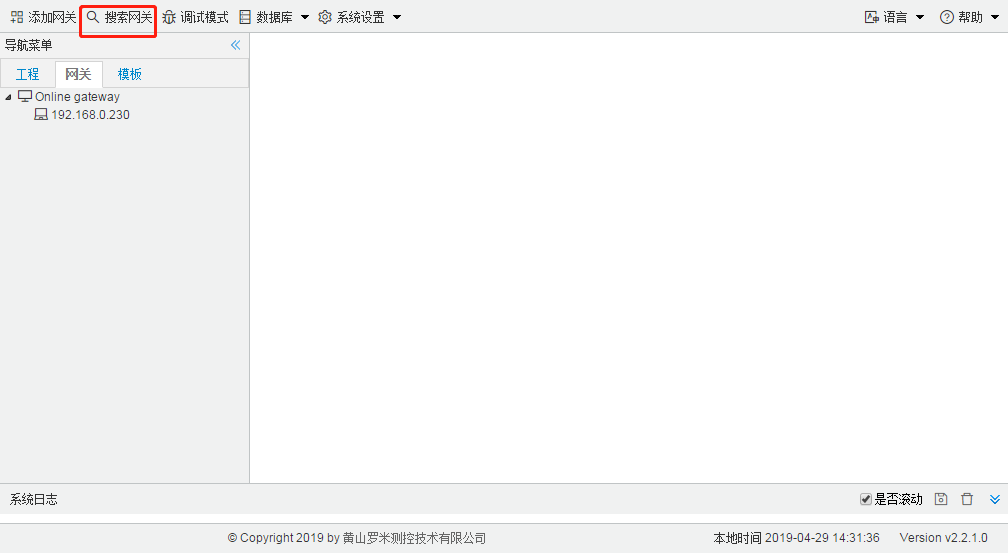
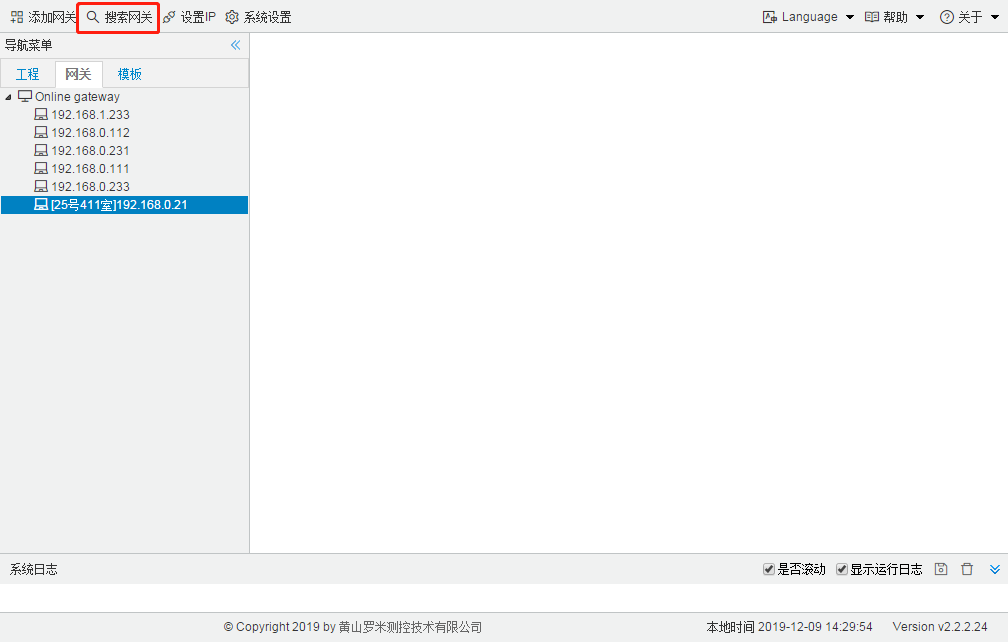
添加工程实例章节

diff --git a/ch6/ch6-1.md b/ch6/ch6-1.md
@@ -884,3 +884,90 @@ Mqtt Client页面的主题中，实时数据、查询、控制、控制返回、
 }
 ```
 
+
+
+## 6.1.5 自定义模板
+
+GC支持用户自定义模板，用于生成不同格式的实时数据、控制主题、重启主题等订阅到的数据的解析。在此以实时数据主题的模板为例，介绍如何新建自定义模板。具体操作如下：
+
+1. Mqtt模板在配置工具安装目录下mqtt文件夹下，其中realtime文件夹为实时数据的模板目录；
+
+2. 在realtime文件夹下新建一个js，在其中进行模板的编写；
+
+3. 参照其他模板，如default.js：
+
+   ```js
+   (function() {
+       var timestamp = Math.round(new Date().getTime() / 1000)
+       result = { "clientid": base["Clientid"], "time": timestamp.toString() };
+       data.forEach(function(tag) {
+           if (!result[tagExt[tag.Id].deviceCode]) {
+               result[tagExt[tag.Id].deviceCode] = {};
+           }
+           result[tagExt[tag.Id].deviceCode][tagExt[tag.Id].tagCode] = parseFloat(tag["Val"])
+       });
+       return JSON.stringify(result);
+   })();
+   ```
+
+   其中  (function() {
+
+   			......
+
+       })();
+
+   为主体，js需要写在其中；
+
+   data为经过过滤后的数据，格式为
+
+   ```json
+   [
+       {
+           "Id":"Device1.tag0001",
+           "Status":"Good",
+           "Timestamp":1574926563,
+           "Val":"1.000000"
+       },
+       {
+           "Id":"Device1.tag0002",
+           "Status":"Good",
+           "Timestamp":1574926563,
+           "Val":"3.000000"
+       }
+   ]
+   ```
+
+   base为mqtt配置填写的参数；
+
+    
+
+   tagExt为tag点的额外属性，包括采集页面中的名称（description）、tag点所在的设备名称、读写类型、tagID，还可以包含“高级参数”中填写的数据（“高级参数”需要填写json格式的数据）
+
+   ```json
+   {
+       "Device1.tag0001":{
+           "description":"",
+           "deviceCode":"Device1",
+           "objectType":"AV",
+           "tagCode":"tag0001"
+       },
+       "Device1.tag0002":{
+           "description":"",
+           "deviceCode":"Device1",
+           "objectType":"AV",
+           "tagCode":"tag0002"
+       }
+   }
+   ```
+
+   模板最后返回主题需要上传的字符串；
+
+   
+
+4. 模板编写完成之后，需要在配置工具中选择新建的模板；
+
+5. 可以先用配置工具“PC端运行工程”测试模板能否正确运行；
+
+6. 需要下载模板到网关：在“系统设置”中选择“开发者模式”，密码为“luomi”，选择“下载MQTT模板”，之后下载工程，网关就会根据新建的模板上传数据。
+
+   ![下载MQTT模板](assets/下载MQTT模板.jpg)

diff --git a/ch2/ch2-5.md b/ch2/ch2-5.md
@@ -14,7 +14,7 @@
 
 ##### URL（获取实时数据地址）：
 
-> http://192.168.1.233/API/V2/real (192.168.1.233为需要查询的网关的ip地址)
+> http://192.168.1.233/API/V2/real  (192.168.1.233为需要查询的网关的ip地址)
 
 ##### HTTP请求方式：
 
@@ -89,7 +89,7 @@
 
 ##### URL（获取实时数据地址）：
 
-> http://192.168.1.233/API/V2/real?deviceCode=Device1 (192.168.1.233为需要查询的网关的ip地址，Device1为需要获取数据的设备名称)
+> http://192.168.1.233/API/V2/real?deviceCode=Device1  (192.168.1.233为需要查询的网关的ip地址，Device1为需要获取数据的设备名称)
 
 ##### HTTP请求方式：
 
@@ -118,7 +118,7 @@
 
 ```json
 {
-    "deviceCode":"ALL",
+    "deviceCode":"Device1",
     "val":[
         {
             "id":"Device1.tag0001",
@@ -158,7 +158,7 @@
 
 ##### URL（进行写操作地址）：
 
-> http://192.168.1.233/ctrlRequest (192.168.1.233为需要进行写操作的网关的ip地址)
+> http://192.168.1.233/ctrlRequest  (192.168.1.233为需要进行写操作的网关的ip地址)
 
 ##### HTTP请求方式：
 
@@ -201,7 +201,7 @@ HTTP通讯成功返回结果都为true，指明网关接收到发送的写操作
 
 ##### URL（获取历史数据地址）：
 
-> http://192.168.1.233/API/V1/history?startTime=2019-07-09&tagID=Device1.tag0001 (192.168.1.233为需要获取历史数据的网关的ip地址，startTime为需要获取历史数据的指定日期，tagID为需要获取历史数据的指定Tag点)
+> http://192.168.1.233/API/V1/history?startTime=2019-07-09&tagID=Device1.tag0001  (192.168.1.233为需要获取历史数据的网关的ip地址，startTime为需要获取历史数据的指定日期，tagID为需要获取历史数据的指定Tag点)
 
 ##### HTTP请求方式：
 

diff --git a/ch12/ch12-2.md b/ch12/ch12-2.md
@@ -1,0 +1,22 @@
+# 12.2 新建网关设备
+
+右键单击“domo”根节点，选择“添加网关”，输入网关名称，选择需要配置的网关类型，单击“确定”按钮，如图12-2所示。
+
+![12-2 新建网关设备](assets/12-2 新建网关设备.png)
+
+<center>图12-2 新建网关设备</center>
+
+此时我们就可以在“demo”根节点下，看到该网关类型所有的可供配置项。
+
+其中“数据采集”为数据来源，分为I/O点（采集驱动）、用户点、计算点和系统点；
+
+“数据存储”是将需要存储的数据点，按照设定周期存储到TF卡当中；
+
+“数据服务”是该网关类型提供的服务类型：例如上图选择“MODBUS网关”，此处就会显示“Modbus”服务。
+
+“任务计划”、“报警与事件”和“JavaScript脚本编辑”的说明，详见第七、八、九章节。
+
+![12-3 工程树](assets/12-3 工程树.png)
+
+<center>图12-3 工程树</center>
+

diff --git a/SUMMARY.md b/SUMMARY.md
@@ -32,7 +32,6 @@
   - [6.2 IoTDDC](ch6/ch6-2.md)
   - [6.3 Alink](ch6/ch6-3.md)
   - [6.4 Tlink](ch6/ch6-4.md)
-  
 - [第七章 任务计划](ch7/README.md)
 - [第八章 报警与事件](ch8/README.md)
   - [8.1 设置报警条件](ch8/ch8-1.md)
@@ -43,6 +42,14 @@
   - [9.3 使用示例](ch9/ch9-3.md)
 - [第十章 运行工程](ch10/README.md)
 - [第十一章 模板](ch11/README.md)
+- [第十二章 应用实例](ch12/README.md)
+  - [12.1 新建工程](ch12/ch12-1.md)
+  - [12.2 新建网关设备](ch12/ch12-2.md)
+  - [12.3 新建通道](ch12/ch12-3.md)
+  - [12.4 新建设备](ch12/ch12-4.md)
+  - [12.5 添加数据点](ch12/ch12-5.md)
+  - [12.6 数据服务](ch12/ch12-6.md)
+  - [12.7 应用工程](ch12/ch12-7.md)
 
 
 

diff --git a/ch12/ch12-6.md b/ch12/ch12-6.md
@@ -1,0 +1,13 @@
+# 12.6 数据服务
+
+单击选择“数据服务”下的“Modbus”，在右侧弹出页面中进行Modbus服务的配置。
+
+![12-7 Modbus服务](assets/12-7 Modbus服务.png)
+
+<center>图12-7 Modbus服务</center>
+
+在Modbus服务中，上方是Modbus服务的协议配置，下方为映射到Modbus服务上的数据点，映射的数据区、寄存器地址、数据类型以及字节序。
+
+
+
+本示例为Modbus网关，在12-2章节“新建网关设备”时选择其他类型的网关，数据服务会有所区别，但是配置思路都是一致的，需要先进行协议方面的配置，然后进行数据点的映射（需要上传的数据点、数据点映射到的地址等）。

diff --git a/ch12/ch12-5.md b/ch12/ch12-5.md
@@ -1,0 +1,13 @@
+# 12.5 添加数据点
+
+左键单击选择需要新建数据点的设备，右侧会显示该设备下已编辑的数据点，可以在表格当中进行增删改。
+
+可通过“导出配置”和“导入配置”将当前配置导出成Excel，用Excel软件配置完成后导入到配置工具当中；
+
+可通过“保存为模板文件”和“装载模板文件”将当前配置保存成模板文件，在当前工程或者其他工程中可直接导入保存的模板，方便批量配置。
+
+![12-6 添加数据点](assets/12-6 添加数据点.jpg)
+
+<center>图12-6 添加数据点</center>
+
+协议表格的参数说明详见《罗米测控网关通讯协议说明》。

diff --git a/ch12/ch12-7.md b/ch12/ch12-7.md
@@ -1,0 +1,12 @@
+# 12.7 应用工程
+
+工程配置完成后，可以进行两方面的操作：下载工程和PC端运行工程。
+
+下载工程：将当前工程下载到指定的网关当中，使网关以当前工程配置运行；
+
+PC端运行工程：在PC端运行当前工程，使用PC的串口和网口进行数据采集和数据服务。在系统日志栏中会打印程序运行时输出 的日志和报文，便于用户在PC环境中调试项目。
+
+![12-8 应用工程](assets/12-8 应用工程.png)
+
+<center>图12-8 应用工程</center>
+

diff --git a/ch12/ch12-1.md b/ch12/ch12-1.md
@@ -1,0 +1,12 @@
+# 12.1 新建工程
+
+打开GC，单击左上方的“工程管理”按钮，选择“新建工程”，在弹出的“新建工程”对话框中输入工程名称，如此处的"demo"，单击“确定”按钮。 如图12-1所示。
+
+![12-1 新建工程](assets/12-1 新建工程.png)
+
+<center>图12-1 新建工程</center>
+
+此时，GC就会将该工程所包含的内容直接呈现在导航菜单栏中，根节点的名称即为工程名称。此后的工程配置都在根节点之上进行。
+
+
+

diff --git a/ch12/ch12-3.md b/ch12/ch12-3.md
@@ -1,0 +1,8 @@
+# 12.3 新建通道
+
+右键单击“I/O点”标签，选择“新建通道”，输入通道名称，选择通道类型（串口/网口），选择采集驱动类型，这里我们选择“ModbusTCPClient”协议作为演示协议。通道的其他参数详见《罗米测控网关通讯协议说明》。如图12-4所示。
+
+![12-4 新建通道](assets/12-4 新建通道.png)
+
+<center>图12-4 新建通道</center>
+

diff --git a/README.md b/README.md
@@ -27,6 +27,7 @@ GC可在PC端脱离网关模拟运行工程，没有授权可模拟运行2小时
 * 第九章：介绍GC的JavaScript自定义脚本的运行方式与API说明以及demo示例。
 * 第十章：介绍工程在GC和在LMGateway运行的操作说明。
 * 第十一章：介绍GC的模板操作说明。
+* 第十二章：介绍GC从无到有配置工程的过程。
 
 
 

diff --git a/ch2/ch2-1.md b/ch2/ch2-1.md
@@ -14,6 +14,8 @@
 
 将网络中的LMGateway全部搜索并列到在线网关列表中。
 
+在1.1章节“新建工程”-“添加网关”时填写了备注，“搜索网关”时会将备注显示在IP之前。
+
 ![2-4 搜索网关](assets/2-4 搜索网关.png)
 
 <center>图2-4 搜索网关</center>

diff --git a/ch12/ch12-4.md b/ch12/ch12-4.md
@@ -1,0 +1,8 @@
+# 12.4 新建设备
+
+选择当前新建的通道，右键单击选择“新建设备”，输入设备名称和设备地址，如图12-5所示。
+
+![12-5 新建设备](assets/12-5 新建设备.png)
+
+<center>图12-5 新建设备</center>
+
